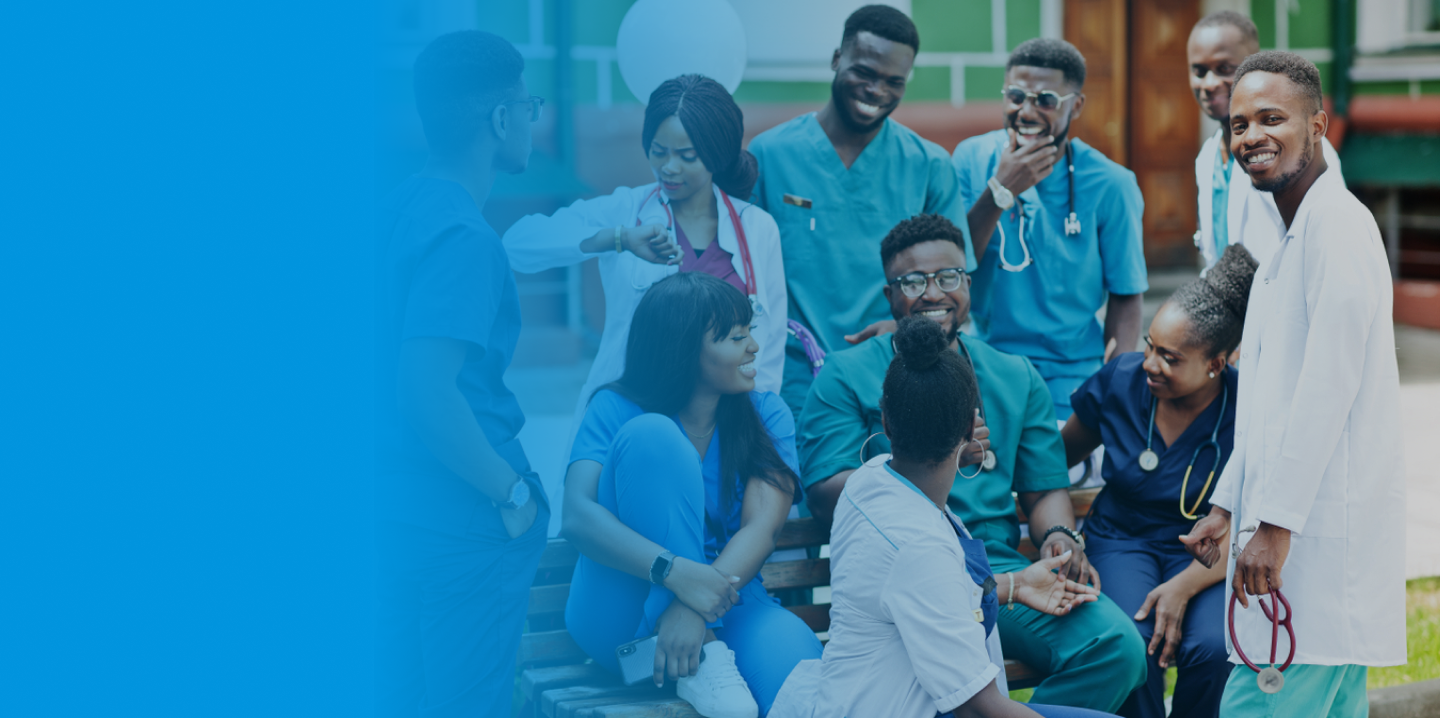
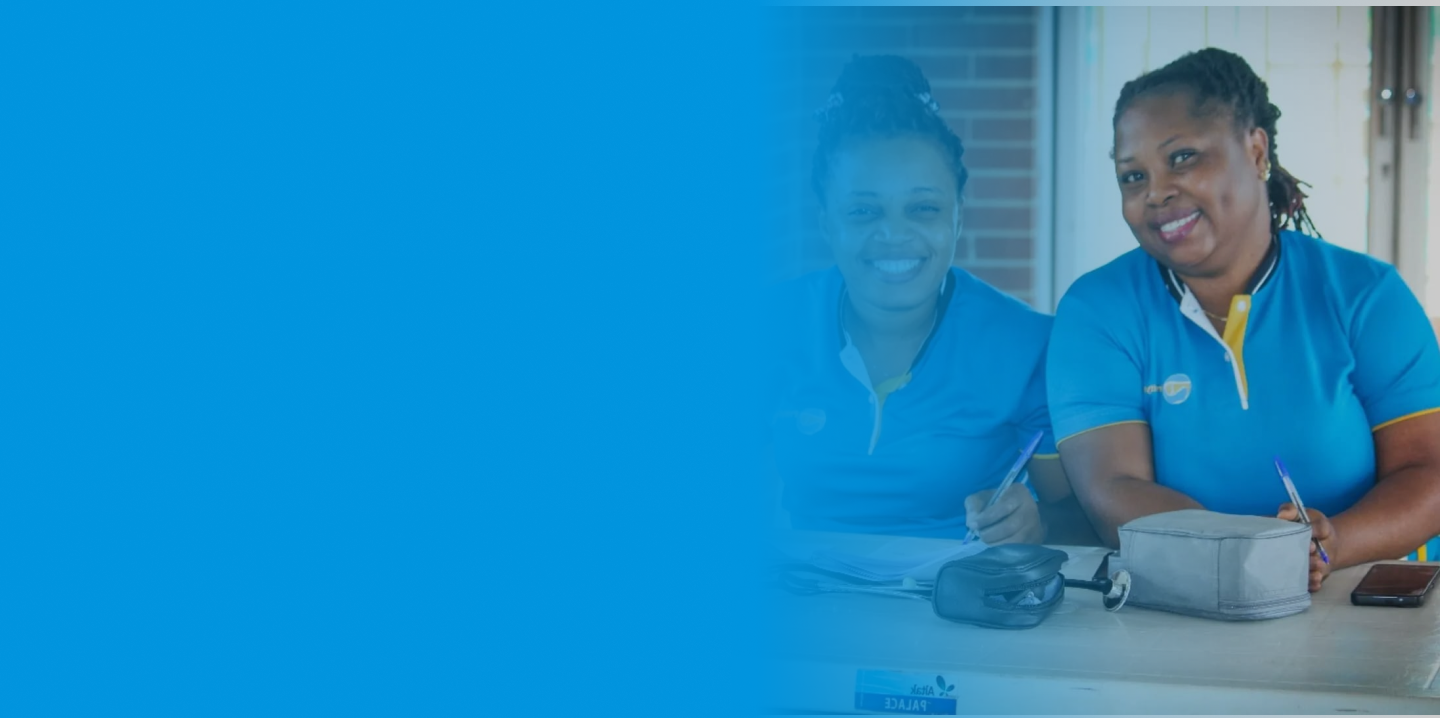
minor changes

diff --git a/src/components/Navbar/Navbar.tsx b/src/components/Navbar/Navbar.tsx
@@ -44,51 +44,26 @@ const Navbar = () => {
                             Home
                         </li>
                         <li className="text-black-700 font-medium hover:text-blue-600 cursor-pointer transition"
-                            onClick={() => window.location.href = "/about_us"}
+                            onClick={() => window.location.href = "/about-us"}
                         >
                             Why Us
                         </li>
-                        <li>
-                            <select
-                                aria-label="Select Area of Care"
-                                name="area of care"
-                                id="AreaOfCare"
-                                className="text-black-700 font-medium bg-transparent p-0 m-0 outline-none cursor-pointer hover:text-blue-600 rounded-lg"
-                                onChange={(e) => {
-                          
-                                    if (e.target.value === "Specialty Care") {
-                                        window.location.href = "/diagnostics";
-                                    }
-                                }}
-                            >
-                                <option value="">Area of Care</option>
-                                <option value="Primary Care">Primary Care</option>
-                                <option value="Specialty Care">Diagnostics</option>
-                            </select>
+                        <li className="text-black-700 font-medium hover:text-blue-600 cursor-pointer transition"
+                            onClick={() => window.location.href = "/diagnostics"}
+                        >
+                           Area of Care
                         </li>
-                        <li>
-                            <select
-                                aria-label="Programs & Promotion"
-                                name="programs"
-                                id="Programs"
-                                className="text-black-700 font-medium bg-transparent p-0 m-0 outline-none cursor-pointer hover:text-blue-600"
-                                onChange={(e) => {
-                                    if (e.target.value === "Health Programs") {
-                                        window.location.href = "/school-health";
-                                    }
-                                }}
-                            >
-                                <option value="">Programs & Promotion</option>
-                                <option value="Health Programs">Health Programs</option>
-                                <option value="Promotions">Promotions</option>
-                            </select>
+                        <li className="text-black-700 font-medium hover:text-blue-600 cursor-pointer transition"
+                            onClick={() => window.location.href = "/school-health"}
+                        >
+                           Programs & Promotion
                         </li>
-                        <li>
+                        <li className="relative group ">
                             <select
-                                aria-label="More"
-                                name="more"
-                                id="More"
-                                className="text-black-700 font-medium bg-transparent p-0 m-0 outline-none cursor-pointer hover:text-blue-600"
+                                // aria-label="More"
+                                // name="more"
+                                // id="More"
+                                className="text-black-700 font-medium bg-transparent p-0 m-0 outline-none cursor-pointer group-hover:text-blue-600"
                                 onChange={(e) => {
                                     if (e.target.value === "FAQ") {
                                         window.location.href = "/FAQs";
@@ -98,9 +73,9 @@ const Navbar = () => {
                                     }
                                 }}
                             >
-                                <option value="">More</option>
-                                <option value="FAQ">FAQ</option>
-                                <option value="Contact Us">Contact Us</option>
+                                <option value="" className="hidden">More</option>
+                                <option value="FAQ"   className="block px-3 py-1 font-medium text-black hover:bg-blue-700" >FAQ</option>
+                                <option value="Contact Us" className="block px-3 py-1 font-medium text-black hover:bg-blue-700">Contact Us</option>
                             </select>
                         </li>
                     </ul>
@@ -119,7 +94,7 @@ const Navbar = () => {
                 </div>
             </div>
         </div>
-    );
+    )
 };
 
 export default Navbar;

diff --git a/src/components/LandingPage/HomeView/HomeView.tsx b/src/components/LandingPage/HomeView/HomeView.tsx
@@ -11,8 +11,20 @@ const HomeView = () => {
                 <Image
                     src="/Pretty-Health Website/Images/Group 20647.png"
                     alt="homeView"
-                    layout="fill"
-                    objectFit="cover"
+                    layout="intrinsic" 
+                    width={500}
+                    height={300}
+                    style={{
+                        position: 'absolute',
+                        height: '100%%',
+                        width: '100%',
+                        left: 0,
+                        top: 0,
+                        right: 0,
+                        bottom: 0,
+                        objectFit: 'cover',
+                        color: 'transparent'
+                    }}
                 />
             </div>
 

diff --git a/src/components/LandingPage/VisitInfo/VisitInfo.tsx b/src/components/LandingPage/VisitInfo/VisitInfo.tsx
@@ -28,8 +28,8 @@ const VisitInfo = () => {
                         <Image
                             src="/Pretty-Health Website/Images/Union.png"
                             alt="UnionPix"
-                            width={500}
-                            height={200}
+                            width={600}
+                            height={270}
                             className="mx-auto lg:mx-0"
                         />
                     </div>

diff --git a/src/components/LandingPage/LandingPage.tsx b/src/components/LandingPage/LandingPage.tsx
@@ -1,3 +1,4 @@
+/* eslint-disable react-hooks/exhaustive-deps */
 import React, { useEffect, useState } from 'react';
 import HomeView from './HomeView/HomeView';
 import VisitInfo from './VisitInfo/VisitInfo';
